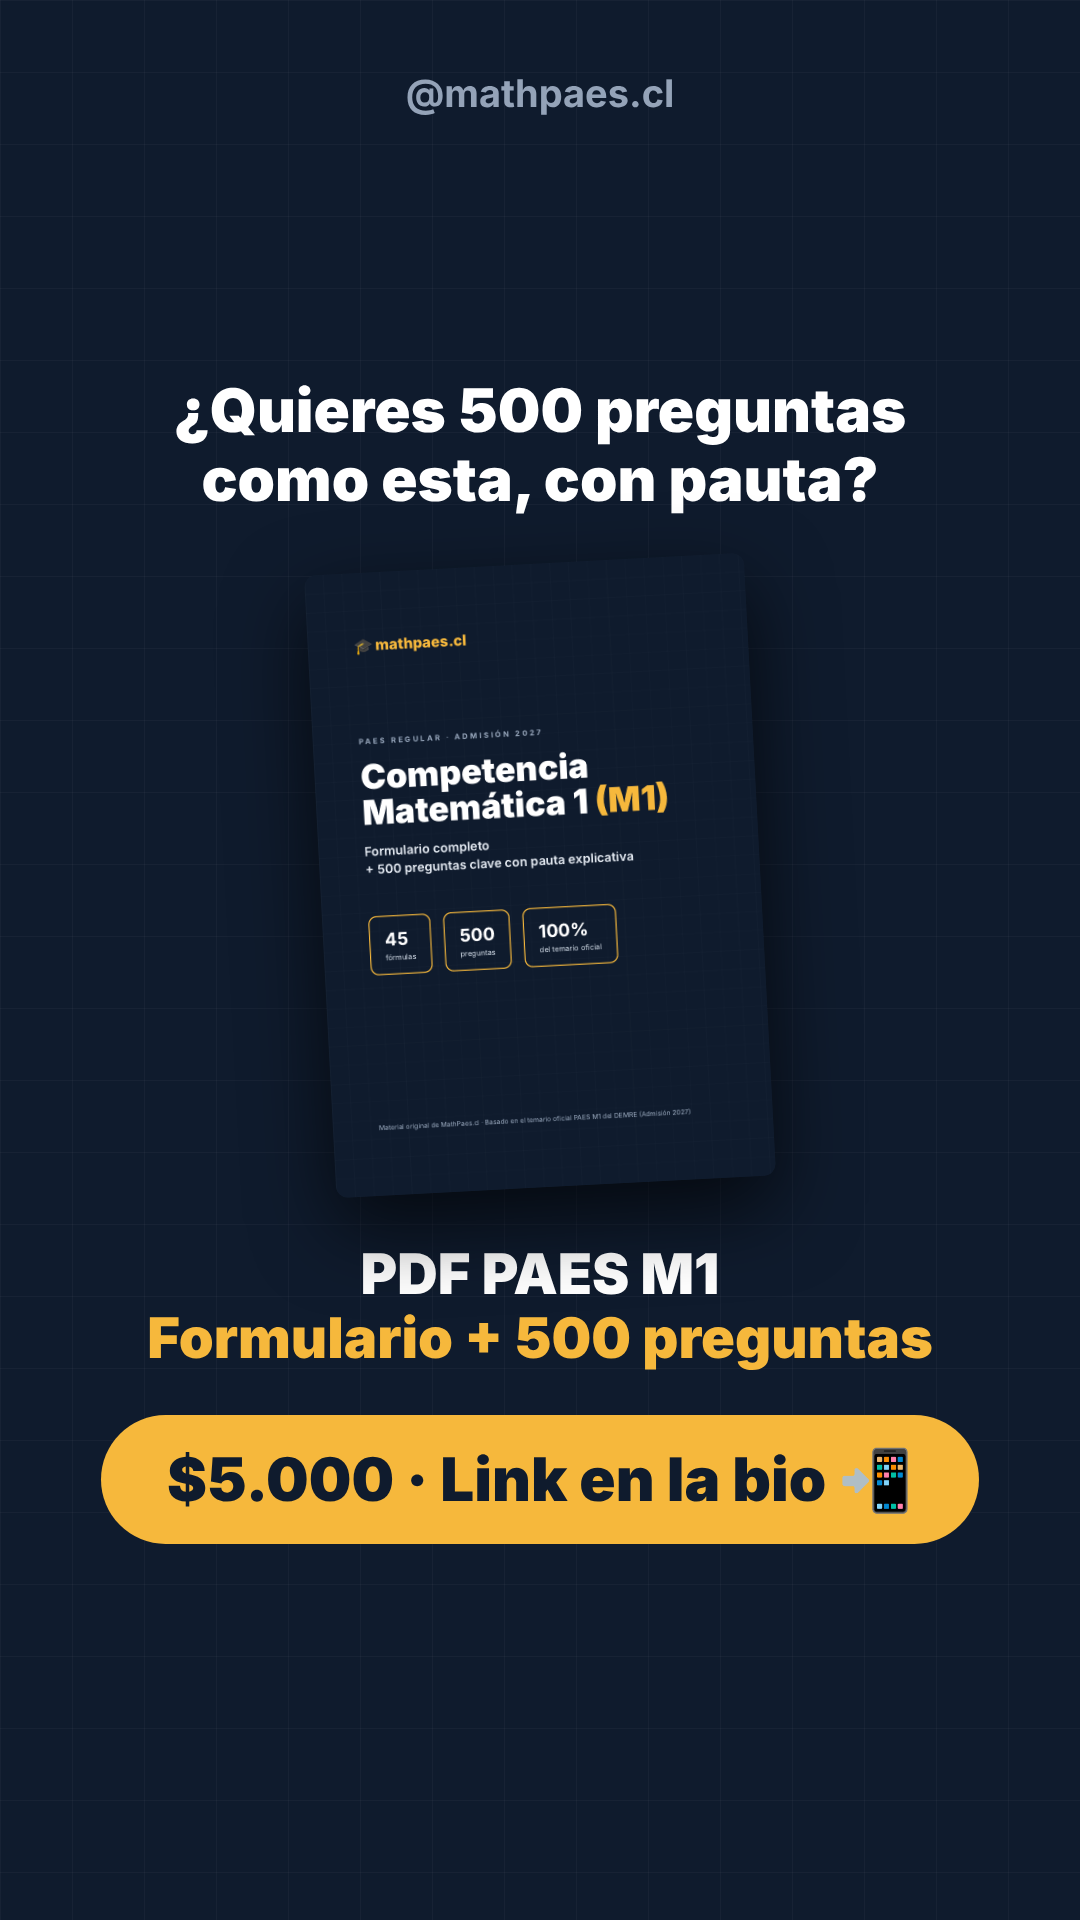
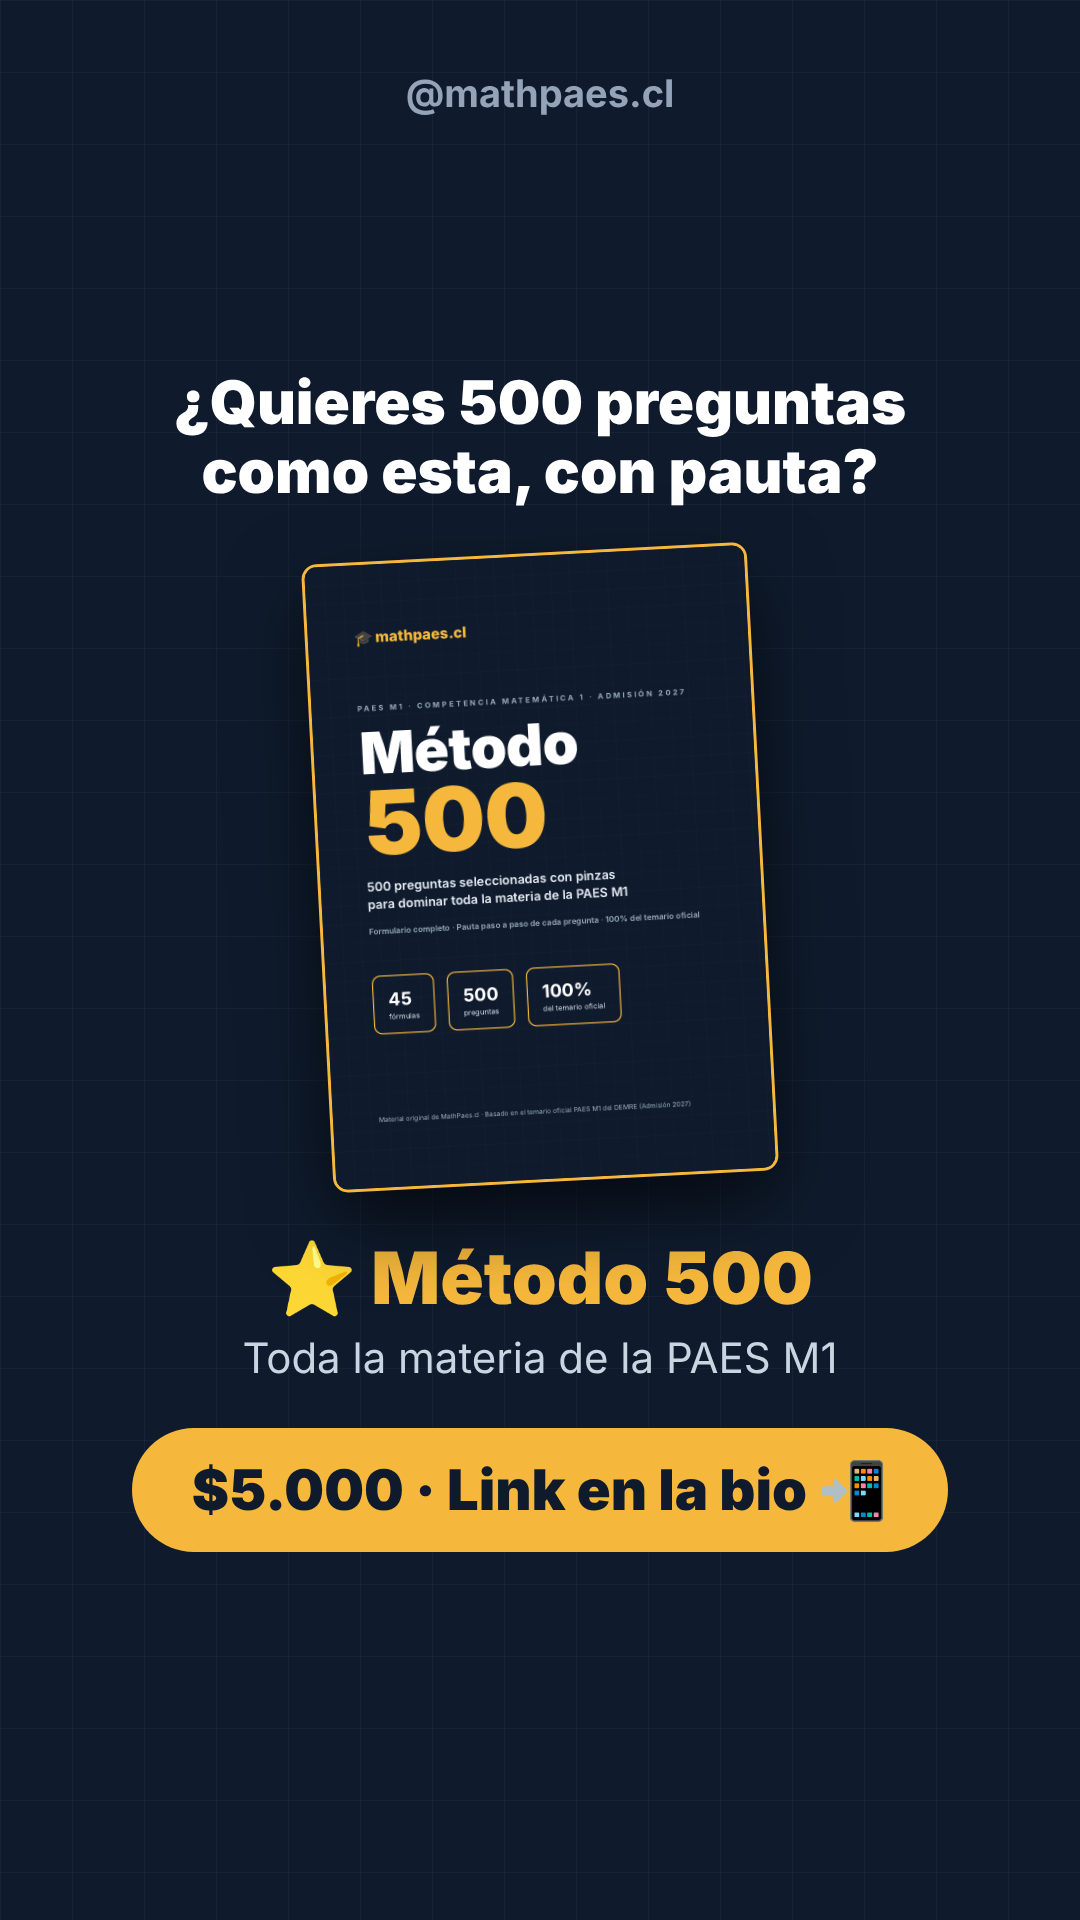
Marca Metodo 500: reel clave, portada, historia, franja, tarjeta final y textos

diff --git a/promo/historia.html b/promo/historia.html
@@ -17,7 +17,7 @@ li:before{content:"✅";position:absolute;left:0}
 </style></head><body>
 <div class="top">⏳ Faltan __N__ días para la PAES</div>
 <h1><span>500</span> preguntas<br>seleccionadas<br>con pinzas</h1>
-<div class="sub">Toda la materia de la PAES M1<br>en un solo PDF 📘</div>
+<div class="sub">Toda la materia de la PAES M1<br>en el <b style="color:#F6B83C">⭐ Método 500</b></div>
 <div class="fila"><img src="file://__PORTADA__"><ul>
 <li>100% del temario oficial</li><li>Todos los tipos de pregunta que se repiten cada año</li><li>Pauta paso a paso de cada una</li><li>Formulario completo incluido</li></ul></div>
 <div class="promesa">Hazlas a conciencia y llega a la PAES <b>preparado para responder cualquier pregunta</b> 💪</div>
